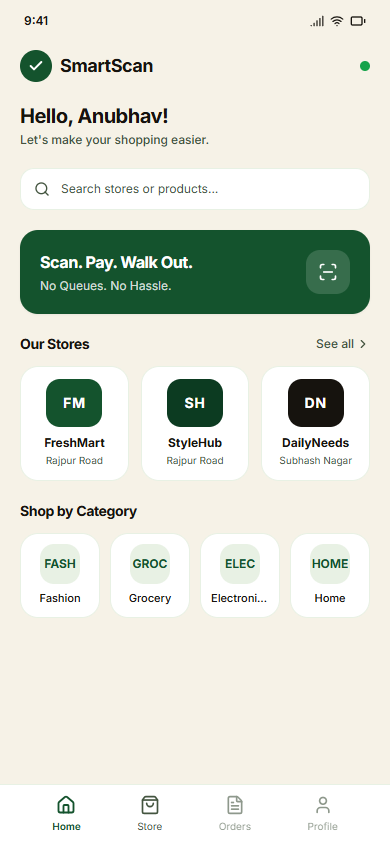
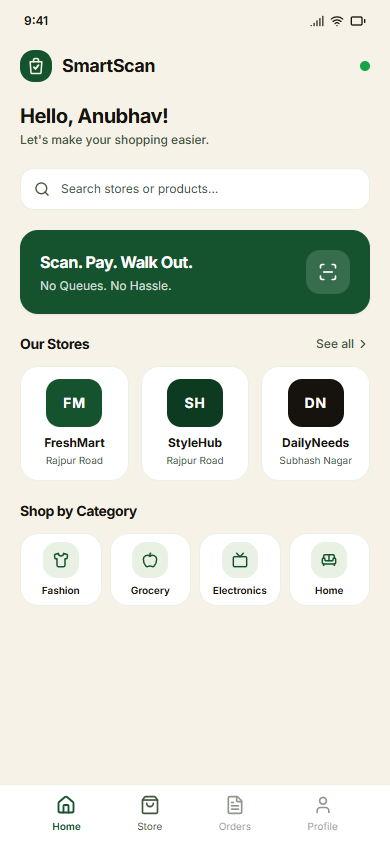
Phase 1: design review fixes

diff --git a/frontend/src/components/HomeScreen.jsx b/frontend/src/components/HomeScreen.jsx
@@ -7,14 +7,59 @@ import {
   Home as HomeIcon, 
   FileText, 
   User, 
-  Check,
-  CheckCircle2
+  Shirt,
+  Apple,
+  Tv,
+  Sofa
 } from 'lucide-react';
 import { 
   MOCK_USER, 
   MOCK_STORES, 
   MOCK_HOME_CATEGORIES 
 } from '../data/mockData';
+
+// Brand mark: Shopping bag outline with a check mark inside (docs/02_DESIGN.md & design board)
+function SmartScanBrandMark({ className = "w-8 h-8" }) {
+  return (
+    <div className={`rounded-card-sm bg-primary flex items-center justify-center p-1.5 shadow-xs shrink-0 ${className}`}>
+      <svg 
+        viewBox="0 0 24 24" 
+        fill="none" 
+        className="w-full h-full"
+      >
+        {/* Shopping bag handle */}
+        <path 
+          d="M9 7V5C9 3.89543 9.89543 3 11 3H13C14.1046 3 15 3.89543 15 5V7" 
+          stroke="#F6F2E7" 
+          strokeWidth="2" 
+          strokeLinecap="round" 
+        />
+        {/* Shopping bag body */}
+        <path 
+          d="M5 7H19L18 20C18 20.5523 17.5523 21 17 21H7C6.44772 21 6 20.5523 6 20L5 7Z" 
+          stroke="#F6F2E7" 
+          strokeWidth="1.8" 
+          strokeLinejoin="round" 
+        />
+        {/* Check mark inside bag */}
+        <path 
+          d="M9.5 13.5L11.5 15.5L15 11" 
+          stroke="#F6F2E7" 
+          strokeWidth="2.2" 
+          strokeLinecap="round" 
+          strokeLinejoin="round" 
+        />
+      </svg>
+    </div>
+  );
+}
+
+const CATEGORY_ICONS = {
+  fash: Shirt,
+  groc: Apple,
+  elec: Tv,
+  home: Sofa,
+};
 
 export default function HomeScreen({ onNavigate }) {
   const [searchQuery, setSearchQuery] = useState('');
@@ -29,12 +74,10 @@ export default function HomeScreen({ onNavigate }) {
       {/* Scrollable Content */}
       <div className="flex-1 overflow-y-auto px-5 pt-3 pb-6 space-y-5">
         
-        {/* App Header */}
+        {/* App Header with locked brand mark */}
         <header className="flex items-center justify-between pt-1">
-          <div className="flex items-center space-x-2">
-            <div className="w-8 h-8 rounded-full bg-primary flex items-center justify-center text-white shadow-xs">
-              <Check className="w-4 h-4 stroke-[3]" />
-            </div>
+          <div className="flex items-center space-x-2.5">
+            <SmartScanBrandMark />
             <span className="font-bold text-lg tracking-tight text-ink">SmartScan</span>
           </div>
           <div className="w-2.5 h-2.5 rounded-full bg-success"></div>
@@ -118,18 +161,23 @@ export default function HomeScreen({ onNavigate }) {
         <div className="space-y-3">
           <h3 className="font-bold text-sm text-ink tracking-tight">Shop by Category</h3>
           
-          <div className="grid grid-cols-4 gap-2.5">
-            {MOCK_HOME_CATEGORIES.map((cat) => (
-              <div 
-                key={cat.id}
-                className="bg-white rounded-card p-2.5 border border-surface-tint shadow-xs flex flex-col items-center text-center cursor-pointer hover:border-primary/30 transition-all active:scale-[0.98]"
-              >
-                <div className="w-10 h-10 rounded-card-sm bg-surface-tint text-primary font-bold text-xs flex items-center justify-center mb-1.5">
-                  {cat.code}
+          <div className="grid grid-cols-4 gap-2">
+            {MOCK_HOME_CATEGORIES.map((cat) => {
+              const Icon = CATEGORY_ICONS[cat.id] || ShoppingBag;
+              return (
+                <div 
+                  key={cat.id}
+                  className="bg-white rounded-card p-2 border border-surface-tint shadow-xs flex flex-col items-center justify-center text-center cursor-pointer hover:border-primary/40 transition-all active:scale-[0.98]"
+                >
+                  <div className="w-9 h-9 rounded-card-sm bg-surface-tint text-primary flex items-center justify-center mb-1.5 shadow-2xs">
+                    <Icon className="w-4 h-4 stroke-[2.2]" />
+                  </div>
+                  <span className="text-[10px] font-semibold text-ink leading-tight text-center whitespace-nowrap">
+                    {cat.label}
+                  </span>
                 </div>
-                <span className="text-[11px] font-medium text-ink truncate w-full">{cat.label}</span>
-              </div>
-            ))}
+              );
+            })}
           </div>
         </div>
 

diff --git a/frontend/src/components/StoreScreen.jsx b/frontend/src/components/StoreScreen.jsx
@@ -55,7 +55,7 @@ export default function StoreScreen({ onNavigate }) {
       </header>
 
       {/* Main Scrollable Body */}
-      <div className="flex-1 overflow-y-auto px-4 pt-2 pb-20 space-y-3">
+      <div className="flex-1 overflow-y-auto px-4 pt-2 pb-32 space-y-3">
         
         {/* Location Breadcrumb */}
         <div className="flex items-center text-[11px] text-ink-muted font-medium">
@@ -109,7 +109,7 @@ export default function StoreScreen({ onNavigate }) {
             <div 
               key={prod.id}
               className={`bg-white rounded-card p-2.5 border border-surface-tint shadow-xs flex flex-col justify-between transition-all ${
-                prod.isOutOfStock ? 'opacity-65 bg-disabled-bg/30' : 'hover:border-primary/40'
+                prod.isOutOfStock ? 'opacity-45 select-none bg-disabled-bg/25 border-surface-tint/40' : 'hover:border-primary/40'
               }`}
             >
               {/* Product Badge / Thumbnail */}
@@ -117,11 +117,6 @@ export default function StoreScreen({ onNavigate }) {
                 <div className={`w-10 h-10 rounded-card-sm ${prod.badgeBg} ${prod.badgeText} font-bold text-xs flex items-center justify-center shadow-2xs`}>
                   {prod.badge}
                 </div>
-                {prod.isOutOfStock && (
-                  <span className="absolute top-1 right-1 bg-alert text-white text-[8px] font-bold px-1.5 py-0.5 rounded-full">
-                    Stock 0
-                  </span>
-                )}
               </div>
 
               {/* Product Info */}
@@ -139,7 +134,7 @@ export default function StoreScreen({ onNavigate }) {
                     ₹{prod.price}
                   </span>
                   {prod.isOutOfStock && (
-                    <span className="text-[9px] text-alert font-medium">Out of Stock</span>
+                    <span className="text-[9px] text-ink-muted font-medium">Out of Stock</span>
                   )}
                 </div>
 
@@ -147,6 +142,7 @@ export default function StoreScreen({ onNavigate }) {
                   <button 
                     disabled
                     type="button"
+                    aria-label="Out of Stock"
                     className="w-6 h-6 rounded-full bg-disabled-bg text-disabled flex items-center justify-center cursor-not-allowed"
                   >
                     <Plus className="w-3.5 h-3.5" />

diff --git a/frontend/src/components/ScannerScreen.jsx b/frontend/src/components/ScannerScreen.jsx
@@ -1,7 +1,7 @@
 import React, { useState } from 'react';
 import { 
   ChevronLeft, 
-  Flashlight, 
+  Zap, 
   Barcode, 
   Check, 
   Plus, 
@@ -44,11 +44,14 @@ export default function ScannerScreen({ onNavigate }) {
           type="button"
           onClick={() => setTorchOn(!torchOn)}
           aria-label="Toggle Torch"
+          title="Toggle Torch"
           className={`w-8 h-8 rounded-full flex items-center justify-center transition-colors ${
-            torchOn ? 'bg-pending text-white shadow-xs' : 'bg-white border border-surface-tint text-ink-muted hover:text-ink'
+            torchOn 
+              ? 'bg-pending text-white shadow-xs' 
+              : 'bg-white border border-surface-tint text-ink-muted hover:text-primary'
           }`}
         >
-          <Flashlight className="w-4 h-4" />
+          <Zap className={`w-4 h-4 ${torchOn ? 'fill-current' : 'stroke-[2.2]'}`} />
         </button>
       </header>
 

diff --git a/frontend/src/data/mockData.js b/frontend/src/data/mockData.js
@@ -44,10 +44,10 @@ export const MOCK_STORES = [
 ];
 
 export const MOCK_HOME_CATEGORIES = [
-  { id: "fash", code: "FASH", label: "Fashion" },
-  { id: "groc", code: "GROC", label: "Grocery" },
-  { id: "elec", code: "ELEC", label: "Electronics" },
-  { id: "home", code: "HOME", label: "Home" },
+  { id: "fash", label: "Fashion", icon: "Shirt" },
+  { id: "groc", label: "Grocery", icon: "Apple" },
+  { id: "elec", label: "Electronics", icon: "Tv" },
+  { id: "home", label: "Home", icon: "Home" },
 ];
 
 export const MOCK_STORE_CATEGORIES = [
